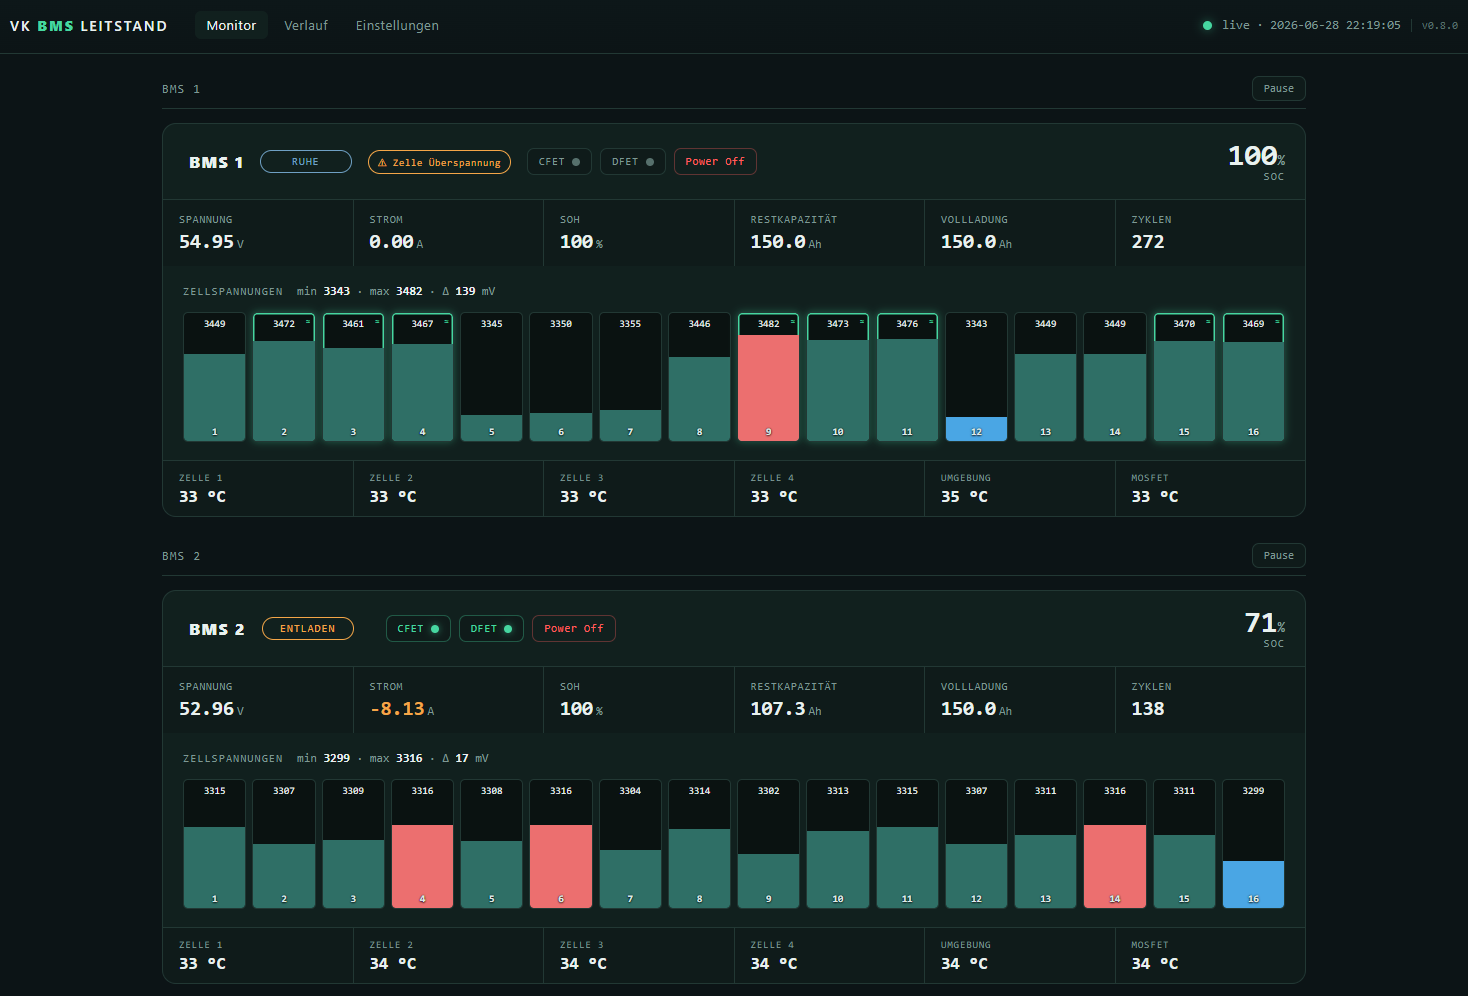
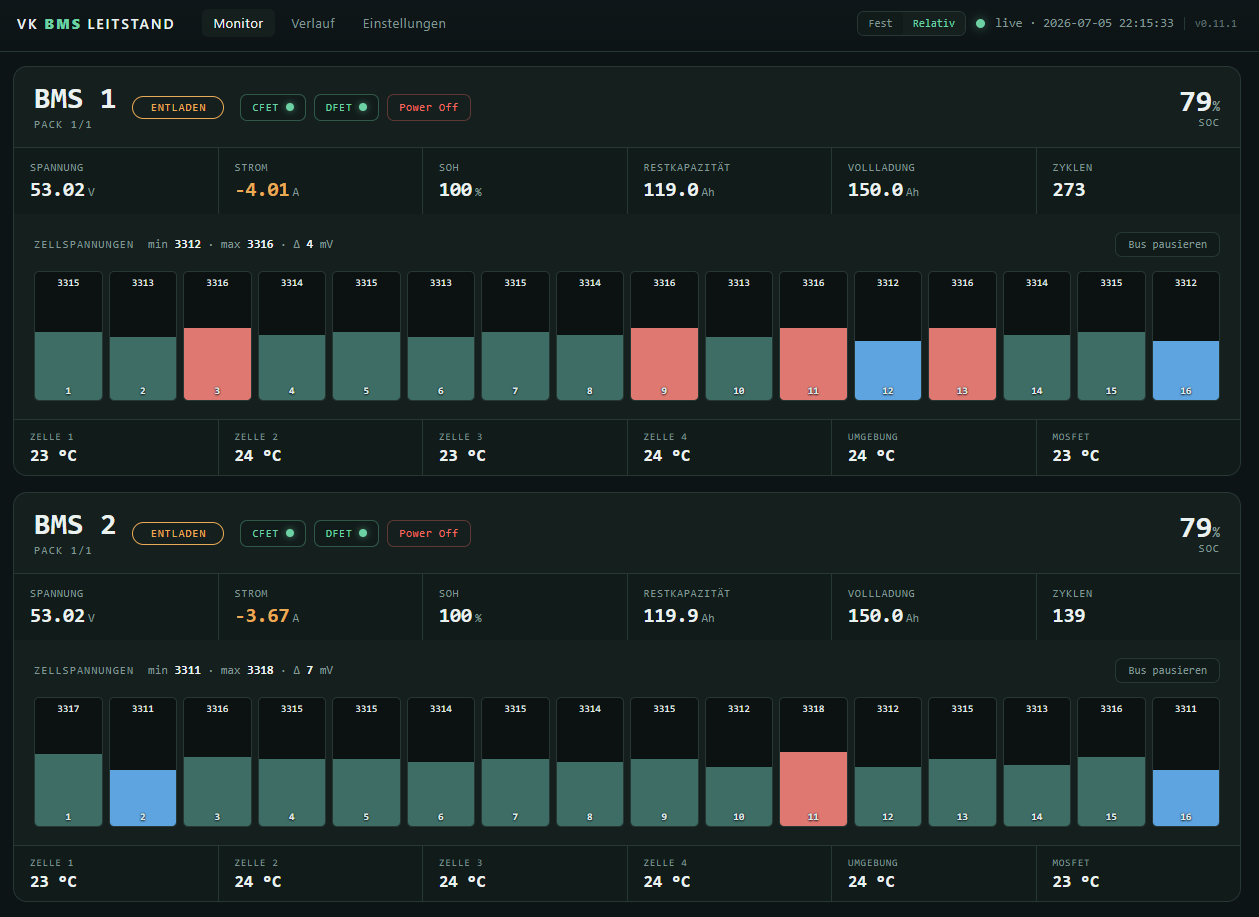
v0.11.0

diff --git a/vkbms/web/chart.html b/vkbms/web/chart.html
@@ -83,10 +83,13 @@
     <button id="reset" title="Zoom zurücksetzen">Zoom reset</button>
     <span id="sel"></span>
   </div>
-  <div class="card"><div id="chart"></div>
+  <div class="card">
+    <div id="chartwrap" style="resize:vertical;overflow:hidden;height:470px;min-height:260px">
+      <div id="chart"></div>
+    </div>
     <div id="legtime"></div>
     <div id="legend" class="legend"></div>
-    <div class="hint">Ziehen = zoomen · Doppelklick oder „Zoom reset" = Vollansicht · Zellen links (mV), Spannung &amp; Strom je eigene Achse rechts.</div>
+    <div class="hint">Ziehen = zoomen · Doppelklick oder „Zoom reset" = Vollansicht · Höhe: unten rechts am Rand ziehen · Zellen links (mV), Spannung/Strom rechts, SOC 0–100 (ohne Achse).</div>
   </div>
 </main>
 <script src="/vendor/uPlot.iife.min.js"></script>
@@ -95,9 +98,9 @@ const CELLS=[...Array(16)].map((_,i)=>"v"+String(i+1).padStart(2,"0"));
 let chart=null, live=0, timer=null, source="", zoomed=false;
 const COLORS=[]; const LABELS=[]; const DEC=[];   // per series (1..18)
 
-const CELL_PALETTE=["#e6194b","#3cb44b","#4363d8","#f58231","#911eb4","#42d4f4",
-  "#f032e6","#bfef45","#fabed4","#469990","#dcbeff","#9a6324","#fffac8","#aaffc3",
-  "#ffd8b1","#a9a9f5"];
+const CELL_PALETTE=["#f25f5f","#ed7126","#f2cd5f","#d4ed26","#a8f25f","#3fed26",
+  "#5ff283","#26eda3","#5ff2f2","#26a3ed","#7b99f4","#715ff2","#b87bf4","#d426ed",
+  "#f25fcd","#ed2671"];
 function cellColor(i){ return CELL_PALETTE[i % CELL_PALETTE.length]; }
 
 function cWidth(){ const el=document.getElementById("chart");
@@ -111,9 +114,11 @@ function makeChart(){
   COLORS.push("#46d6a0"); LABELS.push("Spannung"); DEC.push(2);
   series.push({label:"Strom A",scale:"a",stroke:"#f4a648",width:2,points:{show:false}});
   COLORS.push("#f4a648"); LABELS.push("Strom"); DEC.push(2);
+  series.push({label:"SOC %",scale:"soc",stroke:"#ffffff",width:2,points:{show:false}});
+  COLORS.push("#ffffff"); LABELS.push("SOC"); DEC.push(0);
   const opts={
-    width: cWidth(), height:470,
-    scales:{x:{time:true}, mv:{}, v:{}, a:{}},   // drei unabhängige Y-Skalen
+    width: cWidth(), height: chartHeight(),
+    scales:{x:{time:true}, mv:{}, v:{}, a:{}, soc:{range:[0,100]}},   // SOC feste Skala, ohne Achse
     axes:[
       {stroke:"#7e9893",grid:{stroke:"#1c2c2a"},ticks:{stroke:"#1c2c2a"}},
       {scale:"mv",stroke:"#7e9893",grid:{stroke:"#1c2c2a"},label:"Zellspannung (mV)",
@@ -123,7 +128,7 @@ function makeChart(){
       {scale:"a",side:1,stroke:"#caa46a",grid:{show:false},size:58,
        values:(u,s)=>s.map(v=>(v%1?v.toFixed(1):v.toFixed(0)).replace(".",",")+" A")}
     ],
-    cursor:{drag:{x:true,y:true,uni:20}},
+    cursor:{drag:{x:true,y:true,uni:20}, focus:{alpha:0.22}},
     legend:{show:false},               // eigene Legende unten
     hooks:{
       setSelect:[u=>{
@@ -142,11 +147,18 @@ function makeChart(){
   chart=new uPlot(opts, [[]].concat(series.slice(1).map(()=>[])), document.getElementById("chart"));
   document.getElementById("chart").addEventListener("dblclick",resetZoom);
   buildLegend();
+  // ziehbare Höhe: Wrapper-Höhe aus Session wiederherstellen + auf Änderungen reagieren
+  const wrap=document.getElementById("chartwrap");
+  const savedH=sessionStorage.getItem("chartHeight");
+  if(savedH){ wrap.style.height=savedH+"px"; }
   let rt=null;
-  window.addEventListener("resize",()=>{ clearTimeout(rt); rt=setTimeout(()=>{
-    if(chart) chart.setSize({width:cWidth(),height:470});
-  },150); });
+  const relayout=()=>{ if(chart) chart.setSize({width:cWidth(),height:chartHeight()}); };
+  if(window.ResizeObserver){
+    new ResizeObserver(()=>{ sessionStorage.setItem("chartHeight",wrap.clientHeight); relayout(); }).observe(wrap);
+  }
+  window.addEventListener("resize",()=>{ clearTimeout(rt); rt=setTimeout(relayout,150); });
 }
+function chartHeight(){ const w=document.getElementById("chartwrap"); return Math.max(220,(w&&w.clientHeight)||470); }
 
 function buildLegend(){
   const box=document.getElementById("legend"); box.innerHTML="";
@@ -156,6 +168,8 @@ function buildLegend(){
     el.style.setProperty("--c",COLORS[i]);
     el.innerHTML=`<span class="box"></span><span class="lab">${LABELS[i]}</span><span class="val">–</span>`;
     el.onclick=()=>{ const sh=!chart.series[si].show; chart.setSeries(si,{show:sh}); el.classList.toggle("off",!sh); };
+    el.onmouseenter=()=>{ if(chart) chart.setSeries(si,{focus:true}); };
+    el.onmouseleave=()=>{ if(chart) chart.setSeries(null,{focus:false}); };
     box.appendChild(el);
   }
 }
@@ -191,7 +205,7 @@ async function loadData(){
     const xs=(d.time||[]).map(s=>Date.parse(s)/1000);
     const data=[xs];
     CELLS.forEach(k=>data.push(d[k]||[]));
-    data.push(d.voltage_v||[]); data.push(d.current_a||[]);
+    data.push(d.voltage_v||[]); data.push(d.current_a||[]); data.push(d.soc||[]);
     // Zoom im Live-Modus bewahren
     let keep=null;
     if(live>0 && zoomed && chart){ const sc=chart.scales; keep={x:[sc.x.min,sc.x.max],mv:[sc.mv.min,sc.mv.max],v:[sc.v.min,sc.v.max],a:[sc.a.min,sc.a.max]}; }

diff --git a/vkbms/server.py b/vkbms/server.py
@@ -103,7 +103,7 @@ def _query_history(source: str, since_iso: str, until_iso: str | None,
     if not path or not os.path.exists(path):
         return {"time": []}
     con = sqlite3.connect(f"file:{path}?mode=ro", uri=True)
-    cols = "time,voltage_v,current_a," + ",".join(CELL_KEYS)
+    cols = "time,voltage_v,current_a,soc," + ",".join(CELL_KEYS)
     q = f"SELECT {cols} FROM readings WHERE source=? AND time>=?"
     args = [source, since_iso]
     if until_iso:
@@ -115,7 +115,7 @@ def _query_history(source: str, since_iso: str, until_iso: str | None,
         return {"time": []}
     # downsample by bucket-averaging to at most max_points
     step = max(1, len(rows) // max_points)
-    out = {"time": [], "voltage_v": [], "current_a": []}
+    out = {"time": [], "voltage_v": [], "current_a": [], "soc": []}
     for k in CELL_KEYS:
         out[k] = []
     for i in range(0, len(rows), step):
@@ -125,8 +125,9 @@ def _query_history(source: str, since_iso: str, until_iso: str | None,
         n = len(bucket)
         out["voltage_v"].append(round(sum(r[1] for r in bucket) / n, 2))
         out["current_a"].append(round(sum(r[2] for r in bucket) / n, 2))
+        out["soc"].append(round(sum((r[3] or 0) for r in bucket) / n))
         for j, k in enumerate(CELL_KEYS):
-            out[k].append(round(sum(r[3 + j] for r in bucket) / n))
+            out[k].append(round(sum(r[4 + j] for r in bucket) / n))
     return out
 
 

diff --git a/vkbms/__init__.py b/vkbms/__init__.py
@@ -4,4 +4,4 @@ Entwicklung in Zusammenarbeit: das Coding übernimmt Claude (Anthropic),
 die Funktionen werden gemeinsam mit Gesiima erarbeitet (Anforderungen,
 Reverse-Engineering-Richtung, Tests und Korrekturen von Gesiima).
 """
-__version__ = "0.10.0"
+__version__ = "0.11.0"